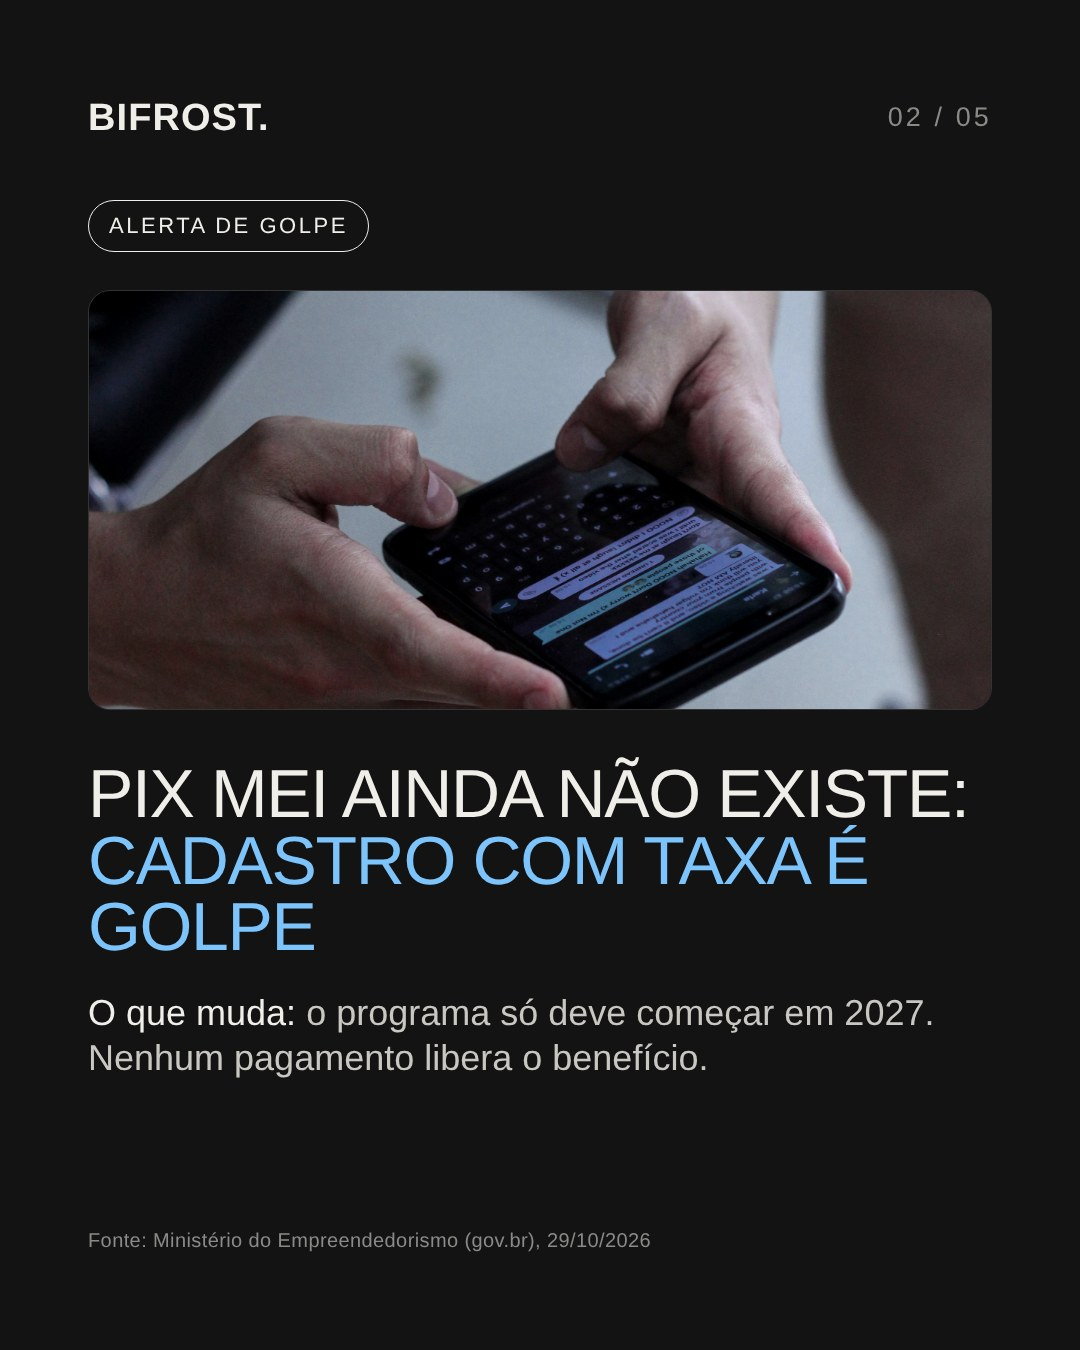
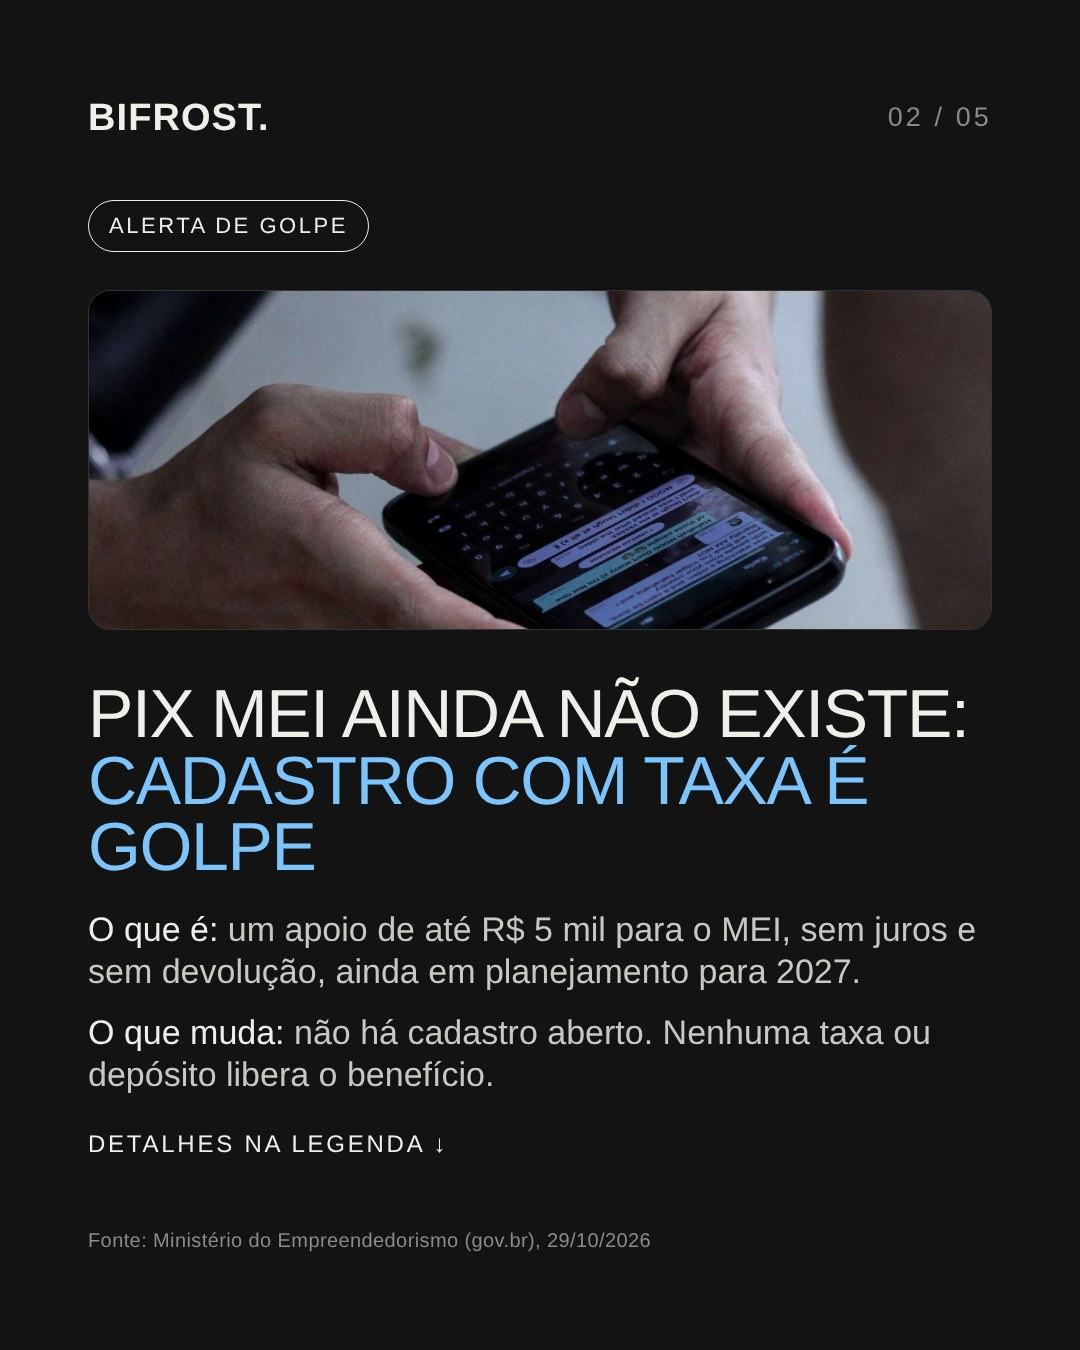
30/10: mais explicação nos slides e na legenda do Tech da semana (aprovado pelo Guilherme)
Claude-Session: https://claude.ai/code/session_012gfGN5roEekij51f23rZM6

Changed region(s): [[0.0611, 0.2178, 0.9167, 0.8089], [0.0917, 0.84, 0.3972, 0.8711]]

diff --git a/posts/2026-10-30-carrossel-tech-da-semana/arte.html b/posts/2026-10-30-carrossel-tech-da-semana/arte.html
@@ -19,24 +19,28 @@
 <section class="slide">
   <div class="head"><span class="mark">BIFROST.</span><span class="eb muted">02 / 05</span></div>
   <div style="position:absolute;left:var(--mx);top:200px"><span class="tag">Alerta de golpe</span></div>
-  <div class="recorte" style="left:var(--mx);right:var(--mx);top:290px;height:420px"><img src="foto-2.jpg" style="object-position:50% 40%"></div>
-  <div style="position:absolute;left:var(--mx);right:var(--mx);top:760px">
+  <div class="recorte" style="left:var(--mx);right:var(--mx);top:290px;height:340px"><img src="foto-2.jpg" style="object-position:50% 40%"></div>
+  <div style="position:absolute;left:var(--mx);right:var(--mx);top:680px">
     <h1 class="manchete">Pix MEI ainda não existe: <em>cadastro com taxa é golpe</em></h1>
-    <p class="body" style="margin-top:30px;font-size:36px"><span style="color:var(--ink)">O que muda:</span> o programa só deve começar em 2027. Nenhum pagamento libera o benefício.</p>
+    <p class="body" style="margin-top:28px;font-size:34px"><span style="color:var(--ink)">O que é:</span> um apoio de até R$ 5 mil para o MEI, sem juros e sem devolução, ainda em planejamento para 2027.</p>
+    <p class="body" style="margin-top:18px;font-size:34px"><span style="color:var(--ink)">O que muda:</span> não há cadastro aberto. Nenhuma taxa ou depósito libera o benefício.</p>
+    <div class="eb" style="margin-top:34px;font-size:24px">Detalhes na legenda ↓</div>
   </div>
-  <p class="credito" style="position:absolute;left:var(--mx);right:var(--mx);bottom:var(--my)">Fonte: Ministério do Empreendedorismo (gov.br), 29/10/2026</p>
+  <div style="position:absolute;left:var(--mx);right:var(--mx);bottom:var(--my);display:flex;justify-content:space-between;align-items:baseline"><p class="credito">Fonte: Ministério do Empreendedorismo (gov.br), 29/10/2026</p></div>
 </section>
 
 <!-- 3 · GOOGLE MODO IA -->
 <section class="slide">
   <div class="head"><span class="mark">BIFROST.</span><span class="eb muted">03 / 05</span></div>
   <div style="position:absolute;left:var(--mx);top:200px"><span class="tag">Google</span></div>
-  <div class="recorte" style="left:var(--mx);right:var(--mx);top:290px;height:420px"><img src="foto-3.jpg" style="object-position:50% 70%"></div>
-  <div style="position:absolute;left:var(--mx);right:var(--mx);top:760px">
+  <div class="recorte" style="left:var(--mx);right:var(--mx);top:290px;height:340px"><img src="foto-3.jpg" style="object-position:50% 70%"></div>
+  <div style="position:absolute;left:var(--mx);right:var(--mx);top:680px">
     <h1 class="manchete">Google vai levar anúncios <em>ao Modo IA no Brasil</em></h1>
-    <p class="body" style="margin-top:30px;font-size:36px"><span style="color:var(--ink)">O que muda:</span> a previsão é o 4º trimestre de 2026. A busca com IA também vira vitrine paga.</p>
+    <p class="body" style="margin-top:28px;font-size:34px"><span style="color:var(--ink)">O que é:</span> o Modo IA é a busca do Google que responde em formato de conversa. Já tem anúncios nos EUA e em mais 10 países.</p>
+    <p class="body" style="margin-top:18px;font-size:34px"><span style="color:var(--ink)">O que muda:</span> previsão para o 4º trimestre de 2026. A busca com IA vira mais uma vitrine paga.</p>
+    <div class="eb" style="margin-top:34px;font-size:24px">Detalhes na legenda ↓</div>
   </div>
-  <p class="credito" style="position:absolute;left:var(--mx);right:var(--mx);bottom:var(--my)">Fonte: Exame, 29/10/2026</p>
+  <div style="position:absolute;left:var(--mx);right:var(--mx);bottom:var(--my);display:flex;justify-content:space-between;align-items:baseline"><p class="credito">Fonte: Exame, 29/10/2026</p></div>
 </section>
 
 <!-- 4 · COMO SE PREPARAR -->
